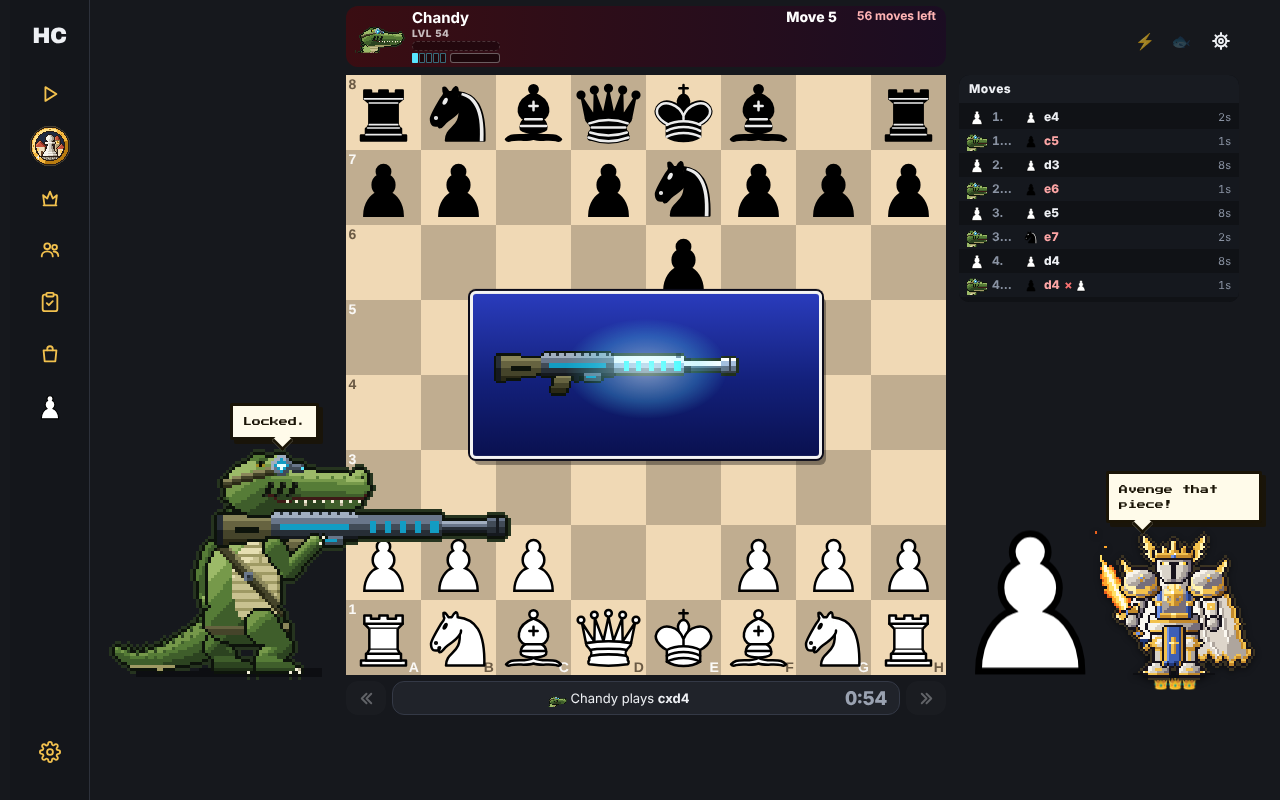
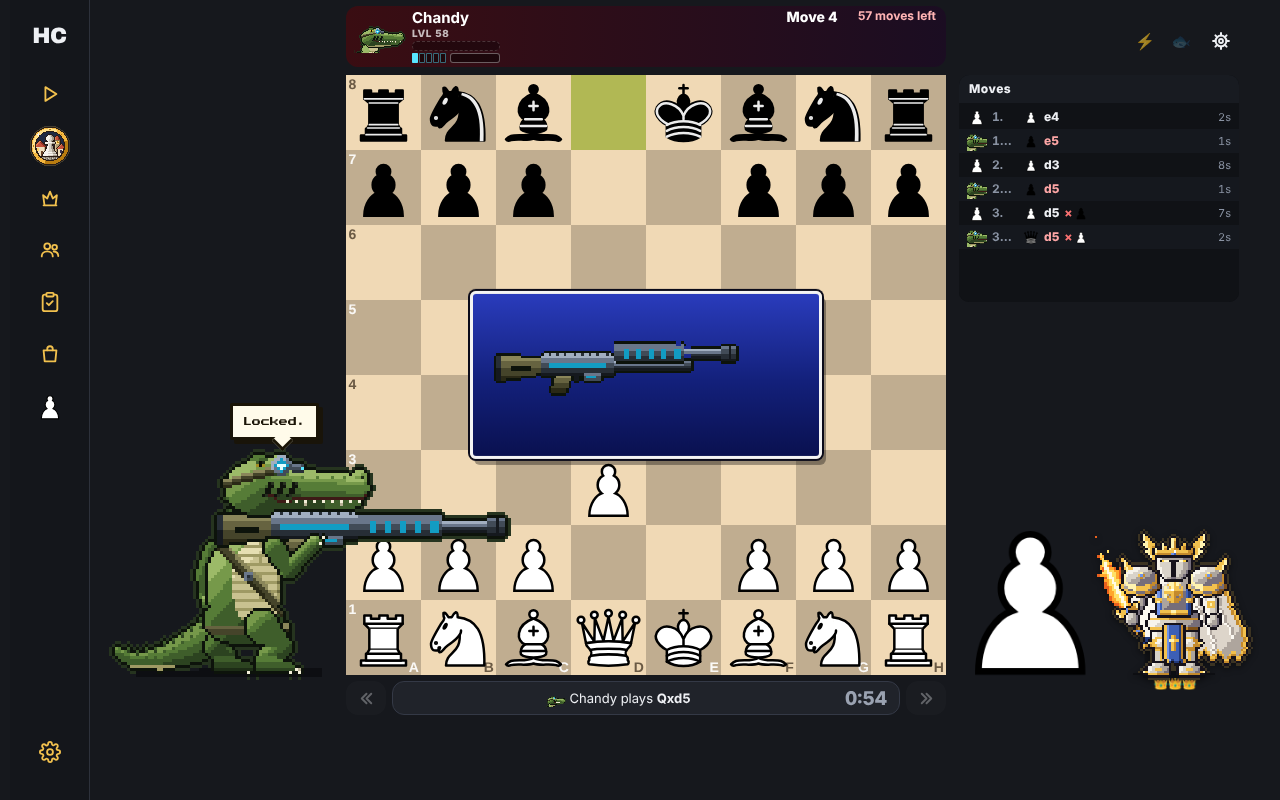
Stills: Chandy's phone bar sized by his body (stowed, rifle out, full upgrade)
Claude-Session: https://claude.ai/code/session_01JuCWRrXg8nZYeyApUAqPFU

diff --git a/README.md b/README.md
@@ -1,6 +1,6 @@
 # Chandy bar and chirp stills (Nov 18)
 
 - `before-phone-428-dark-chandy.png`: main before the change (stowed, rifle out).
-- `phone-428-{dark,light}-...png`: after: stowed, rifle out (move 4/5), and Sawyer's bar for comparison.
+- `phone-428-{dark,light}-...png`: after (sized by his body): stowed at the start, rifle out (his first lock), stowed at full upgrade (the rifle over the header line), and Sawyer's bar for comparison.
 - `computer-1280x800-chandy-rifle-out.png`: the computer, unchanged (he aims level beside the board).
 - `chandy-lock.wav`, `chandy-unlock.wav`, `chandy-alarm.wav`: the new sounds, as the game plays them.
